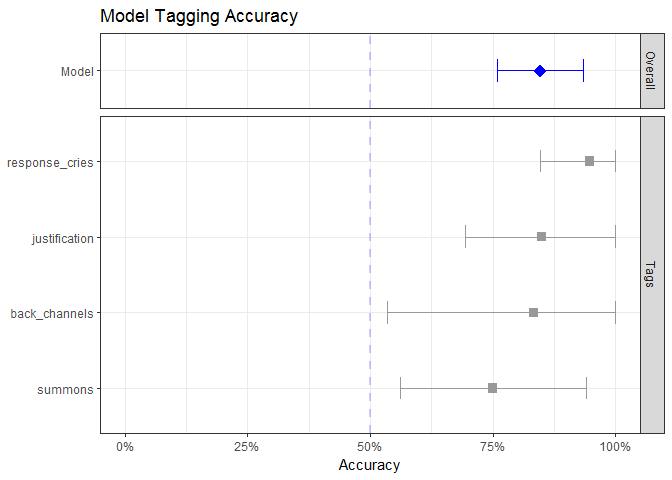
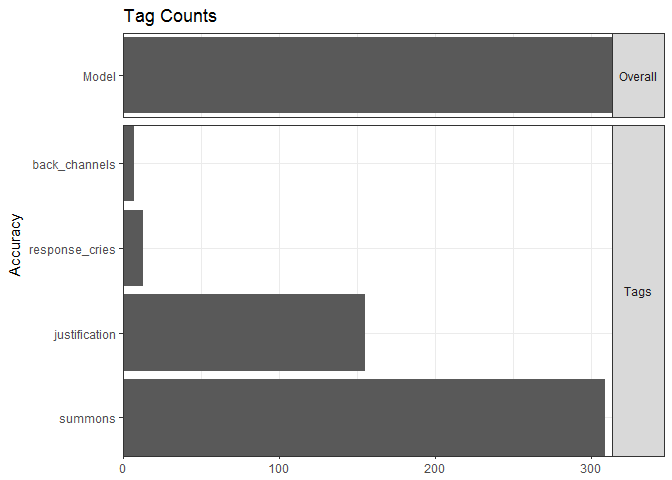
updated readme

diff --git a/README.md b/README.md
@@ -9,7 +9,7 @@ developed.](http://www.repostatus.org/badges/0.1.0/active.svg)](http://www.repos
 Status](https://travis-ci.org/trinker/termco.svg?branch=master)](https://travis-ci.org/trinker/termco)
 [![Coverage
 Status](https://coveralls.io/repos/trinker/termco/badge.svg?branch=master)](https://coveralls.io/r/trinker/termco?branch=master)
-[![DOI](https://zenodo.org/badge/5398/trinker/termco.svg)](https://zenodo.org/badge/latestdoi/5398/trinker/termco)<a href="https://img.shields.io/badge/Version-0.5.1-orange.svg"><img src="https://img.shields.io/badge/Version-0.5.1-orange.svg" alt="Version"/></a>
+[![DOI](https://zenodo.org/badge/5398/trinker/termco.svg)](https://zenodo.org/badge/latestdoi/5398/trinker/termco)<a href="https://img.shields.io/badge/Version-0.5.2-orange.svg"><img src="https://img.shields.io/badge/Version-0.5.2-orange.svg" alt="Version"/></a>
 </p>
 <img src="inst/termco_logo/r_termco.png" width="200" alt="textproj Logo">
 
@@ -89,119 +89,129 @@ their description:
 <td align="left">Count regex term occurrence; modeling</td>
 </tr>
 <tr class="even">
+<td align="left"><code>token_count</code></td>
+<td align="left">count</td>
+<td align="left">Count fixed token occurrence</td>
+</tr>
+<tr class="odd">
 <td align="left"><code>frequent_terms</code>/<code>all_words</code></td>
 <td align="left">count</td>
 <td align="left">Frequent terms</td>
 </tr>
-<tr class="odd">
+<tr class="even">
 <td align="left"><code>important_terms</code></td>
 <td align="left">count</td>
 <td align="left">Important terms</td>
 </tr>
-<tr class="even">
+<tr class="odd">
 <td align="left"><code>hierarchical_coverage_term</code></td>
 <td align="left">count</td>
 <td align="left">Unique coverage of a text vector by terms</td>
 </tr>
-<tr class="odd">
+<tr class="even">
 <td align="left"><code>hierarchical_coverage_regex</code></td>
 <td align="left">count</td>
 <td align="left">Unique coverage of a text vector by regex</td>
 </tr>
-<tr class="even">
+<tr class="odd">
 <td align="left"><code>ngram_collocations</code></td>
 <td align="left">count</td>
 <td align="left">Weighted frequent ngram (2 &amp; 3) collocations</td>
 </tr>
-<tr class="odd">
+<tr class="even">
 <td align="left"><code>word_count</code></td>
 <td align="left">count</td>
 <td align="left">Count words</td>
 </tr>
-<tr class="even">
+<tr class="odd">
 <td align="left"><code>term_before</code>/<code>term_after</code></td>
 <td align="left">count</td>
 <td align="left">Frequency of words before/after a regex term</td>
 </tr>
-<tr class="odd">
+<tr class="even">
 <td align="left"><code>term_first</code></td>
 <td align="left">count</td>
 <td align="left">Frequency of words at the begining of strings</td>
 </tr>
-<tr class="even">
+<tr class="odd">
 <td align="left"><code>colo</code></td>
 <td align="left">search</td>
 <td align="left">Regex output to find term collocations</td>
 </tr>
-<tr class="odd">
+<tr class="even">
 <td align="left"><code>search_term</code></td>
 <td align="left">search</td>
 <td align="left">Search for regex terms</td>
 </tr>
-<tr class="even">
+<tr class="odd">
 <td align="left"><code>search_term_collocations</code></td>
 <td align="left">search</td>
 <td align="left">Wrapper for <code>search_term</code> + <code>frequent_terms</code></td>
 </tr>
-<tr class="odd">
+<tr class="even">
 <td align="left"><code>classification_project</code></td>
 <td align="left">modeling</td>
 <td align="left">Make a classification modeling project template</td>
 </tr>
-<tr class="even">
+<tr class="odd">
 <td align="left"><code>as_dtm</code>/<code>as_tdm</code></td>
 <td align="left">modeling</td>
 <td align="left">Coerce <code>term_count</code> object into <code>tm::DocumentTermMatrix</code>/<code>tm::TermDocumentMatrix</code></td>
 </tr>
-<tr class="odd">
+<tr class="even">
 <td align="left"><code>split_data</code></td>
 <td align="left">modeling</td>
 <td align="left">Split data into <code>train</code> &amp; <code>test</code> sets</td>
 </tr>
-<tr class="even">
+<tr class="odd">
 <td align="left"><code>evaluate</code></td>
 <td align="left">modeling</td>
 <td align="left">Check accuracy of model against human coder</td>
 </tr>
-<tr class="odd">
+<tr class="even">
 <td align="left"><code>classify</code></td>
 <td align="left">modeling</td>
 <td align="left">Assign n tags to text from a model</td>
 </tr>
-<tr class="even">
+<tr class="odd">
 <td align="left"><code>get_text</code></td>
 <td align="left">modeling</td>
 <td align="left">Get the original text for model tags</td>
 </tr>
-<tr class="odd">
+<tr class="even">
 <td align="left"><code>coverage</code></td>
 <td align="left">modeling</td>
 <td align="left">Coverage for <code>term_count</code> or <code>search_term</code> object</td>
 </tr>
-<tr class="even">
+<tr class="odd">
 <td align="left"><code>uncovered</code>/<code>get_uncovered</code></td>
 <td align="left">modeling</td>
 <td align="left">Get the uncovered text from a model</td>
 </tr>
-<tr class="odd">
+<tr class="even">
 <td align="left"><code>tag_co_occurrence</code></td>
 <td align="left">modeling</td>
 <td align="left">Explor co-occurrence of tags from a model</td>
 </tr>
-<tr class="even">
+<tr class="odd">
 <td align="left"><code>validate_model</code>/<code>assign_validation_task</code></td>
 <td align="left">modeling</td>
 <td align="left">Human validation of a <code>term_count</code> model</td>
 </tr>
-<tr class="odd">
+<tr class="even">
 <td align="left"><code>as_count</code></td>
 <td align="left">convert</td>
 <td align="left">Strip pretty printing from <code>term_count</code> object</td>
 </tr>
-<tr class="even">
+<tr class="odd">
 <td align="left"><code>as_terms</code></td>
 <td align="left">convert</td>
 <td align="left">Convert a count matrix to list of term vectors</td>
+</tr>
+<tr class="even">
+<td align="left"><code>as_term_list</code></td>
+<td align="left">convert</td>
+<td align="left">Convert a vector of terms into a named term list</td>
 </tr>
 <tr class="odd">
 <td align="left"><code>weight</code></td>
@@ -1457,20 +1467,32 @@ confidence band is highly affected by the number of samples per tag).
     ## -------
     ## Overall:
     ## -------
-    ##    accuracy  n  se lower upper
-    ## 1:    84.6% 65 .04 75.8% 93.4%
+    ##    accuracy   n sampled  se lower upper
+    ## 1:    59.6% 484      57 .06 46.9% 72.4%
     ## 
     ## 
     ## ---------------
     ## Individual Tags:
     ## ---------------
-    ##               tag accuracy  n  se lower  upper
-    ## 1: response_cries    94.7% 19 .05 84.7% 100.0%
-    ## 2:  justification    85.0% 20 .08 69.4% 100.0%
-    ## 3:  back_channels    83.3%  6 .15 53.5% 100.0%
-    ## 4:        summons    75.0% 20 .10 56.0%  94.0%
+    ##               tag accuracy   n sampled  se lower  upper
+    ## 1:  back_channels    83.3%   7       6 .15 53.5% 100.0%
+    ## 2: response_cries    72.7%  13      11 .13 46.4%  99.0%
+    ## 3:  justification    55.0% 155      20 .11 33.2%  76.8%
+    ## 4:        summons    50.0% 309      20 .11 28.1%  71.9%
 
     plot(validated)
+
+    ## Warning in if (self$expand) {: the condition has length > 1 and only the
+    ## first element will be used
+
+    ## Warning in if (self$expand) {: the condition has length > 1 and only the
+    ## first element will be used
+
+    ## Warning in if (self$expand) {: the condition has length > 1 and only the
+    ## first element will be used
+
+    ## Warning in if (self$expand) {: the condition has length > 1 and only the
+    ## first element will be used
 
 ![](inst/figure/unnamed-chunk-41-1.png)
 
